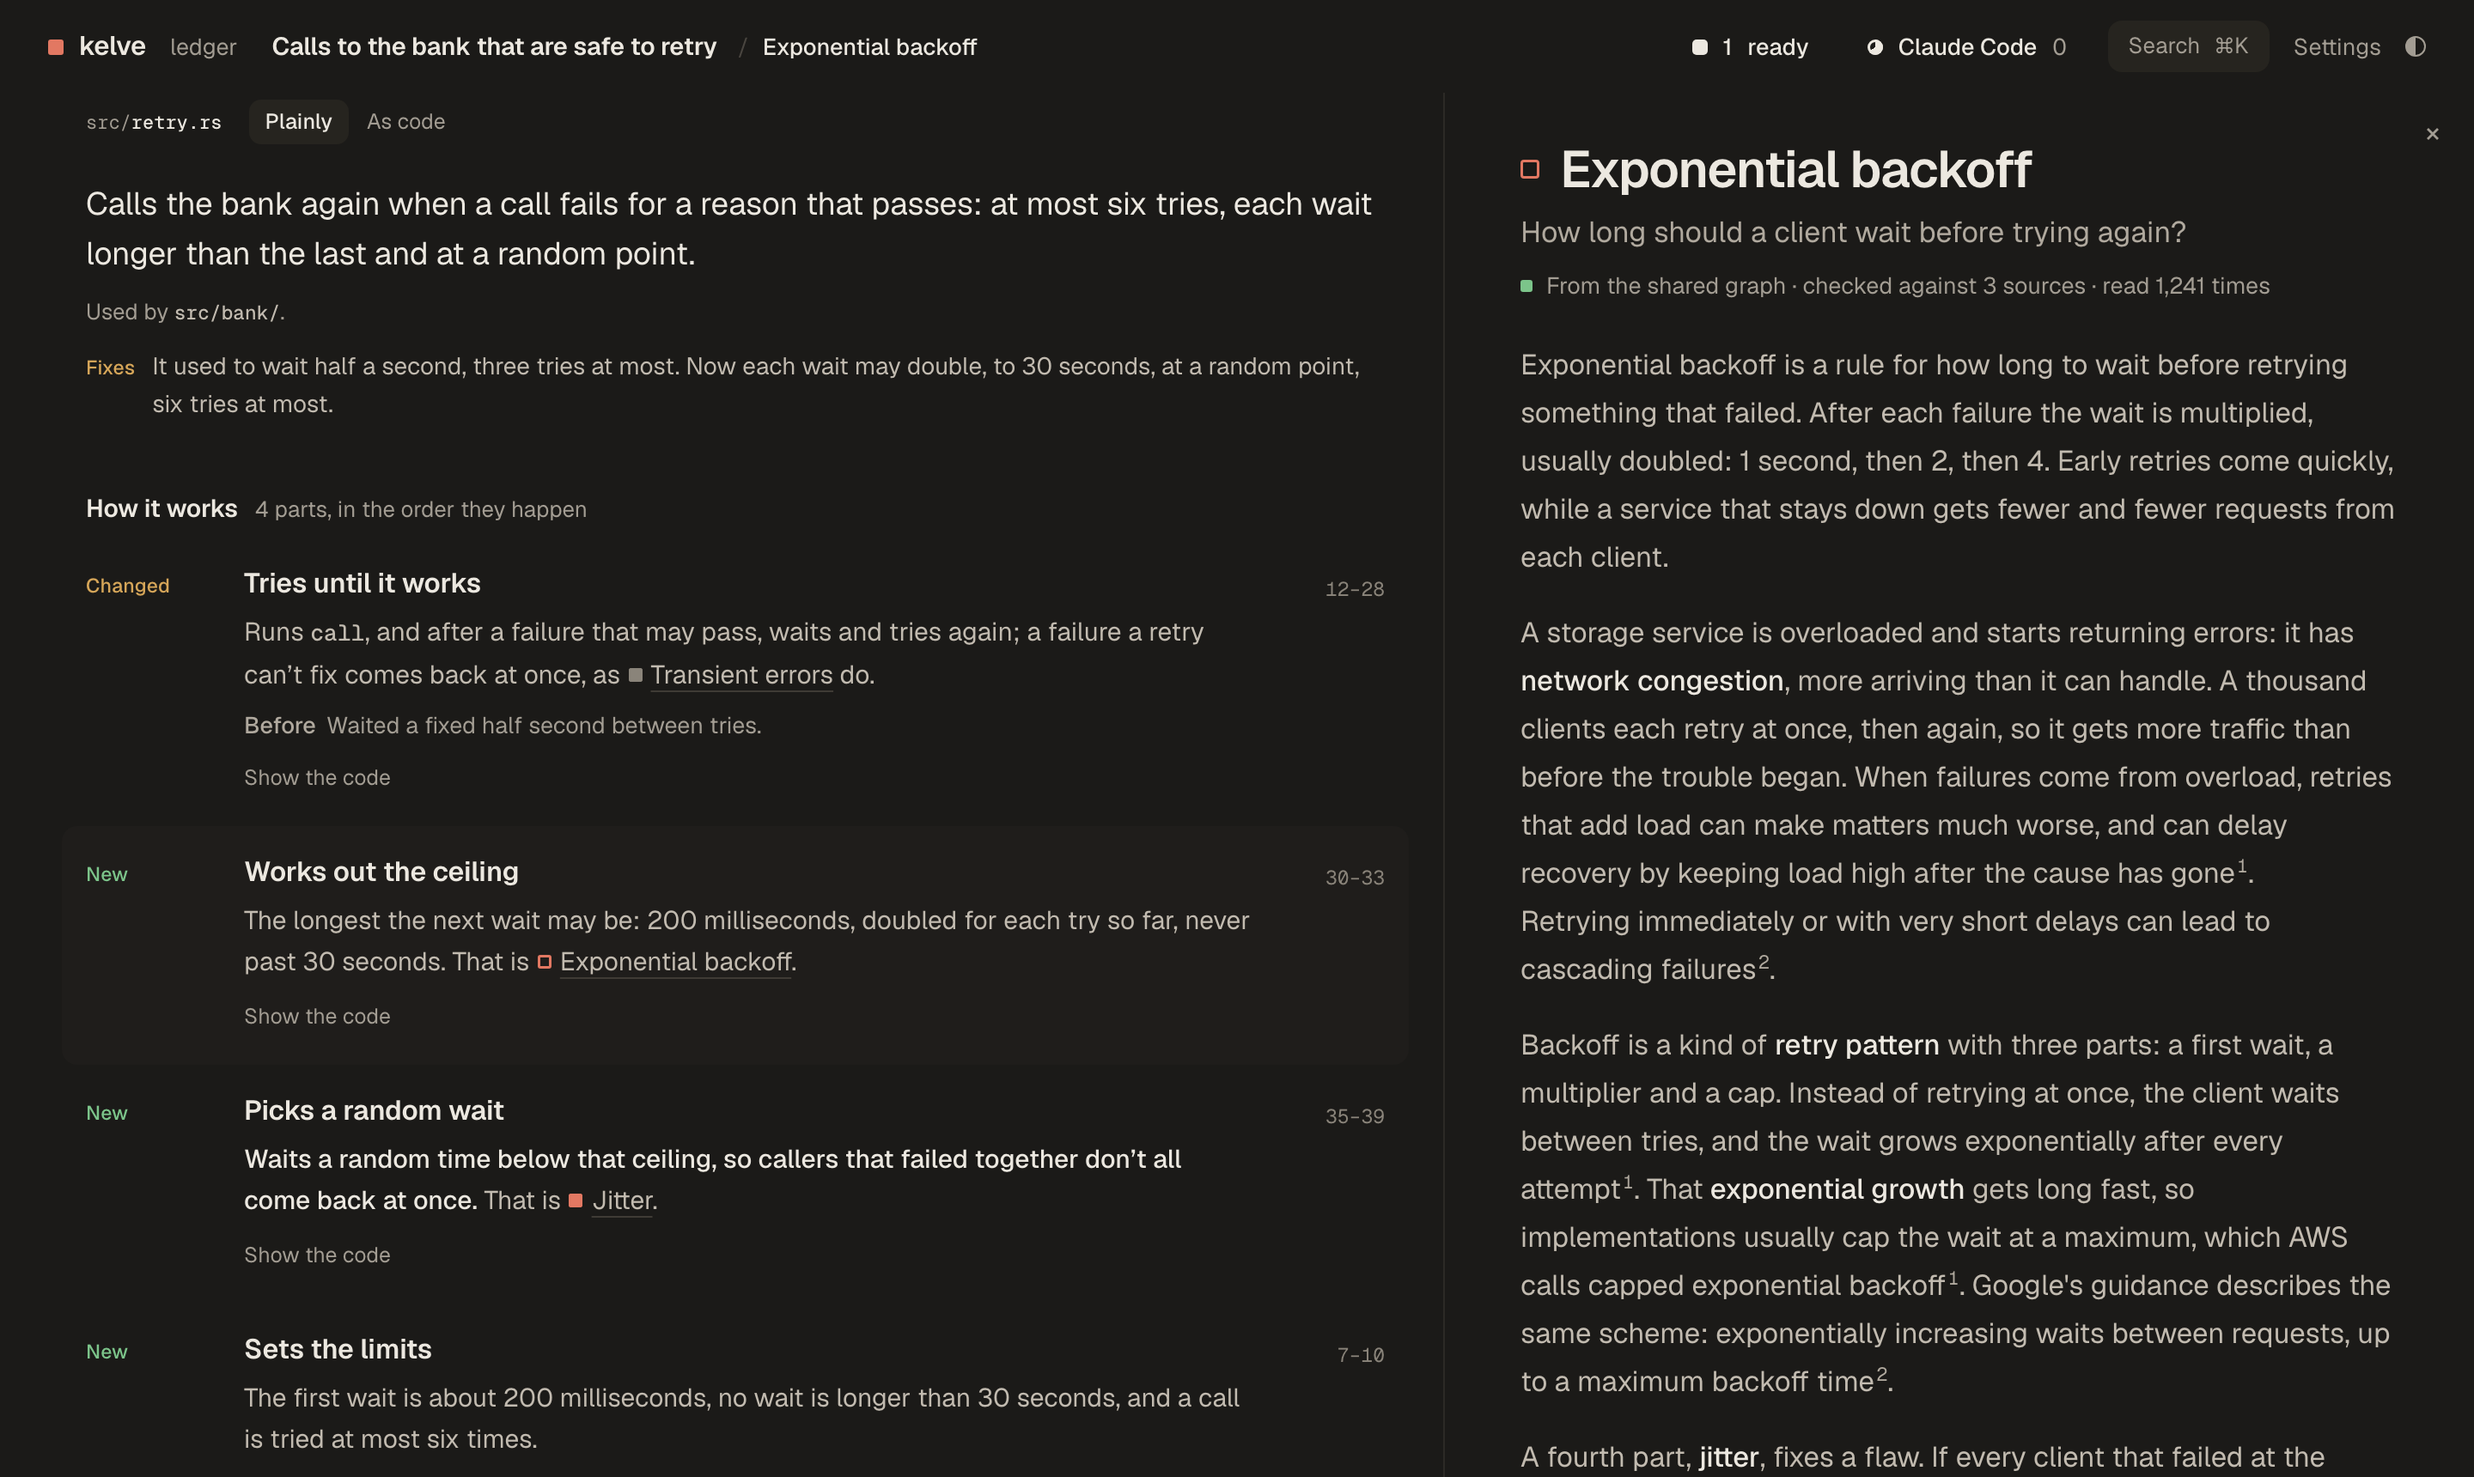
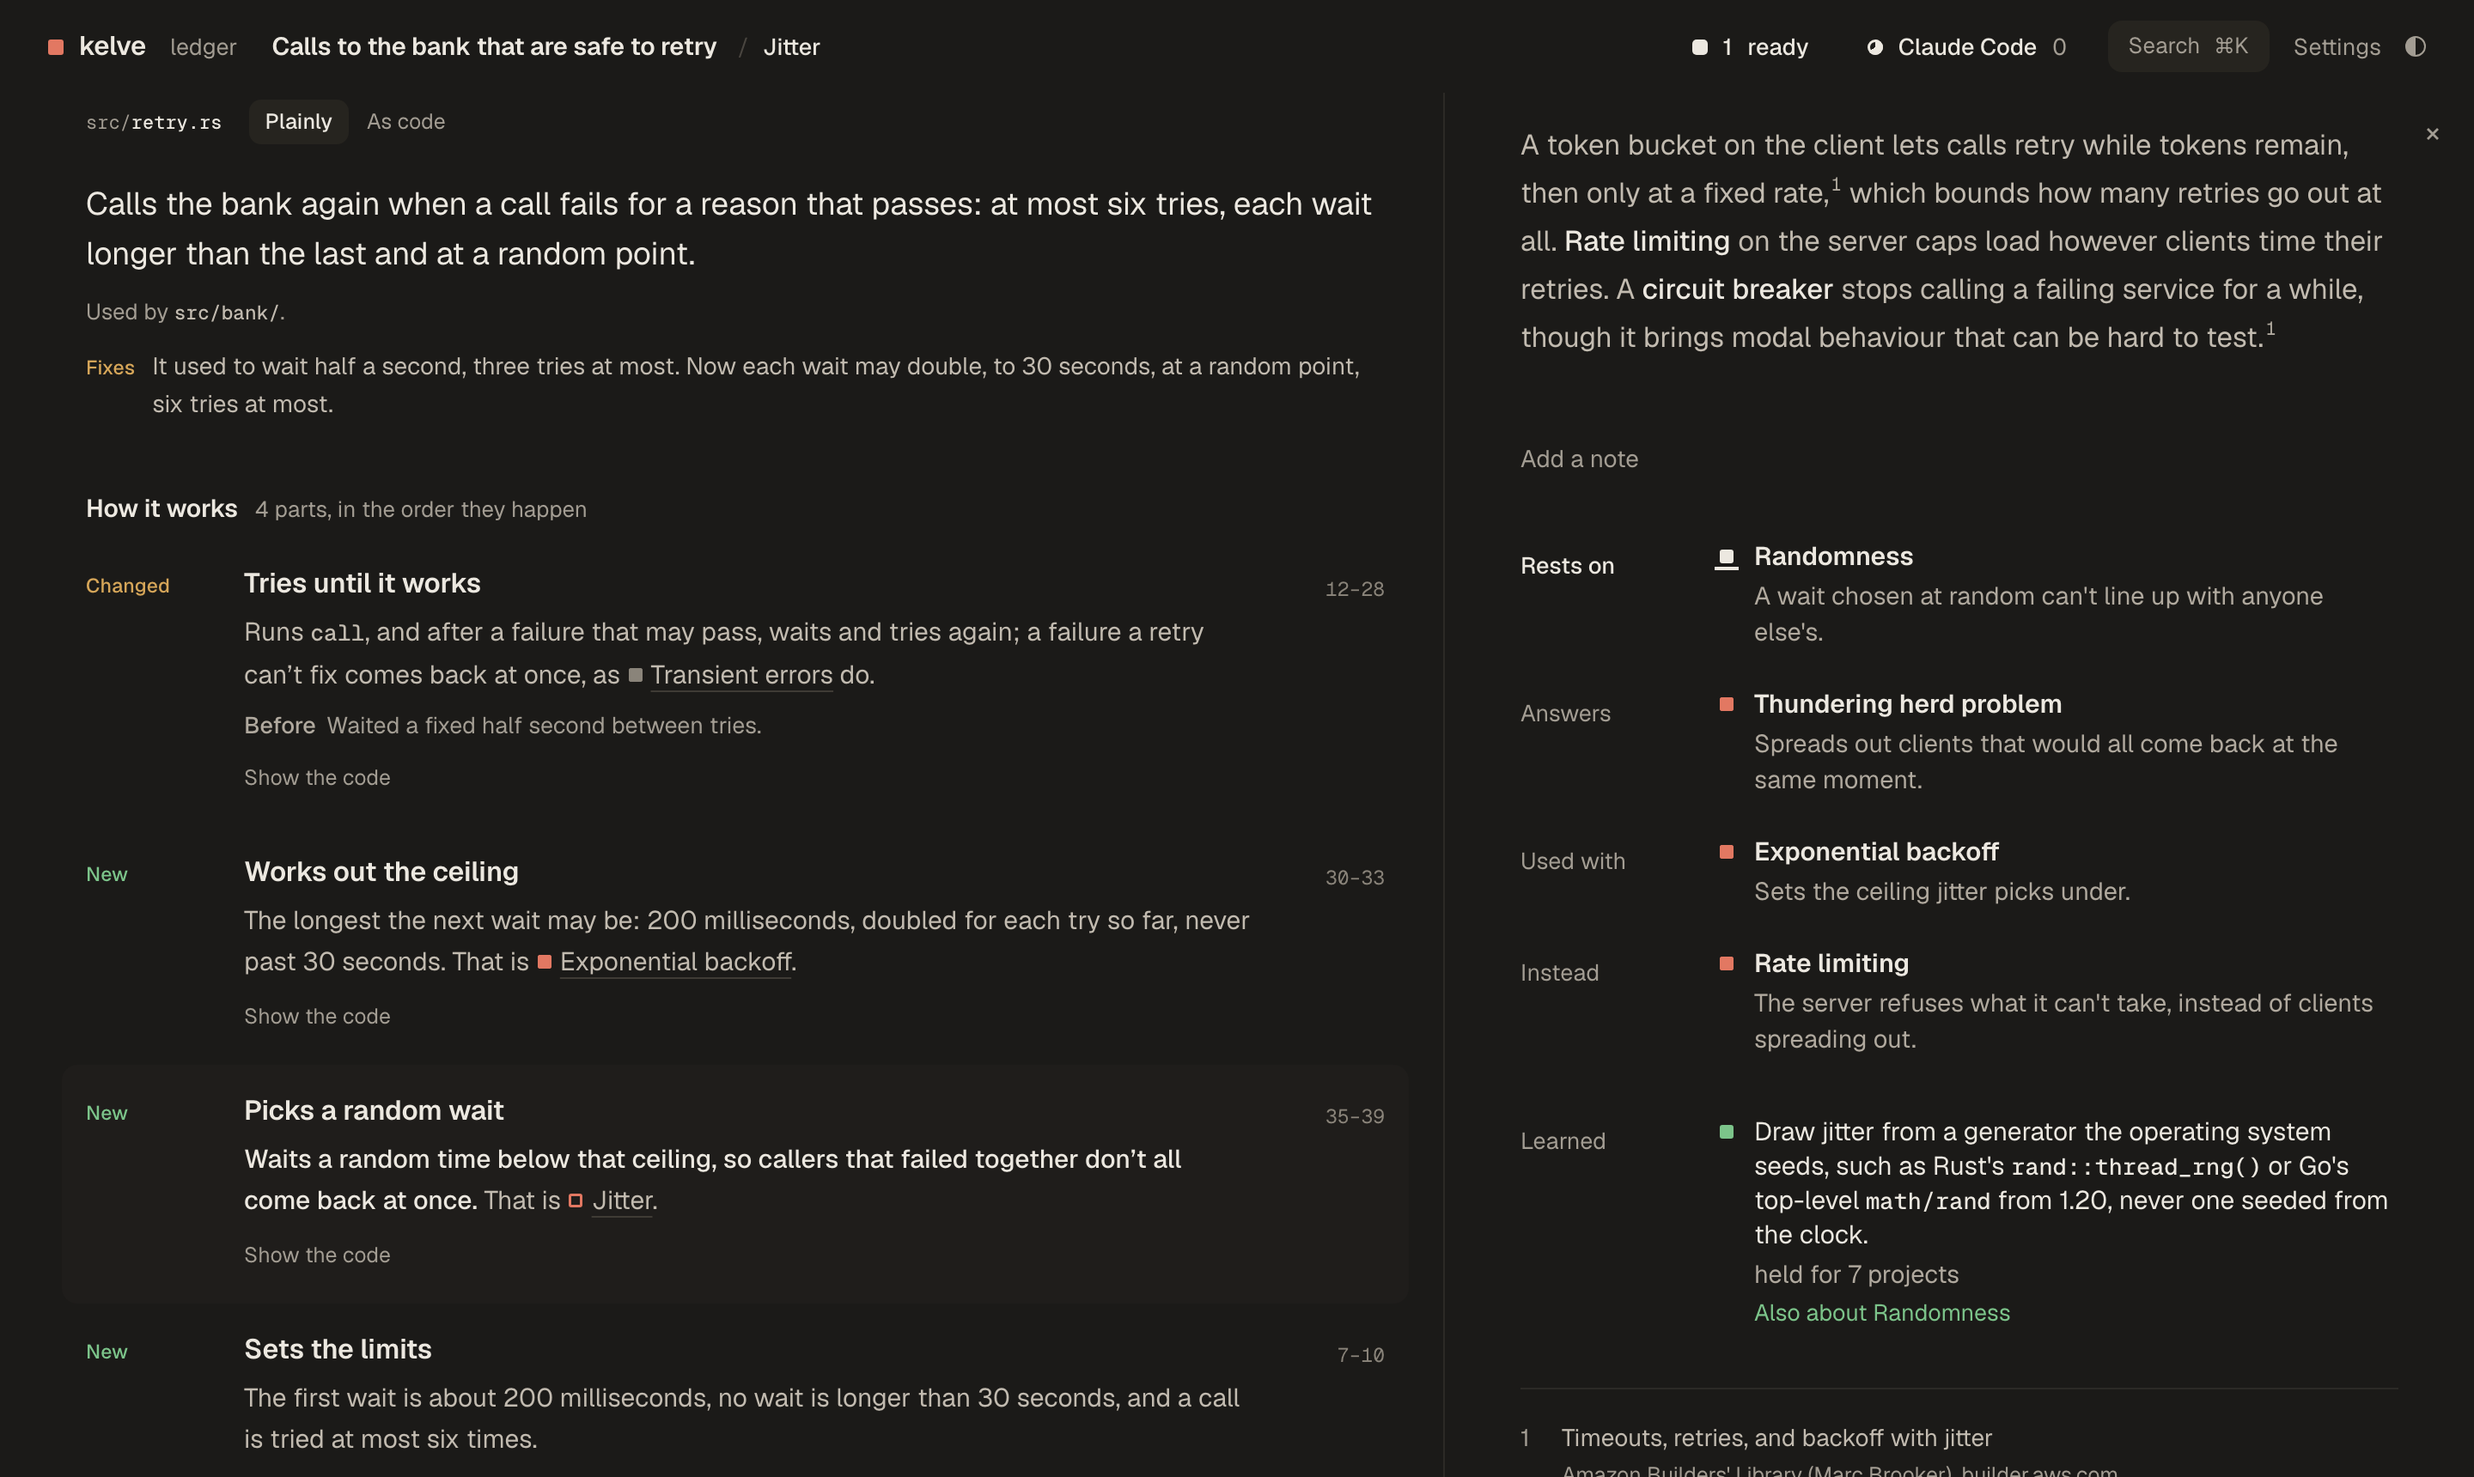
README: an idea's entry shows how it connects to others
Go as deep as you like now says what an entry shows under the idea:
what it rests on, what problem it answers, what it's used with and what
could replace it. Its screenshot opens Jitter's entry at those, in
place of Exponential backoff's opening paragraphs, which showed none.

Changed region(s): [[0.625, 0.0924, 0.9688, 1.0], [0.3125, 0.0308, 0.375, 0.0616]]

diff --git a/README.md b/README.md
@@ -49,11 +49,11 @@ What it’s for, then each part in the order things happen, with what it did bef
 
 ## Go as deep as you like.
 
-Click an idea and its entry opens beside the work, from a shared graph checked against its sources. Click what it rests on, and keep going, down to first principles.
+Click an idea and its entry opens beside the work, from a shared graph checked against its sources. Each entry shows how the idea connects to others: what it rests on, what problem it answers, what it’s used with and what could replace it. Click any of them and keep going, down to first principles.
 
 <picture>
   <source media="(prefers-color-scheme: dark)" srcset=".github/assets/entry-dark.png">
-  <img src=".github/assets/entry-light.png" width="880" alt="src/retry.rs read plainly, with the entry for Exponential backoff open beside it: from the shared graph, checked against 3 sources, with how it works in plain words.">
+  <img src=".github/assets/entry-light.png" width="880" alt="src/retry.rs read plainly, with the entry for Jitter open beside it, down at how it connects to other ideas: it rests on Randomness, answers the thundering herd problem, is used with exponential backoff, and rate limiting could replace it. Under them, what an agent learned about it.">
 </picture>
 
 ## Leave notes. Your agent picks them up.
